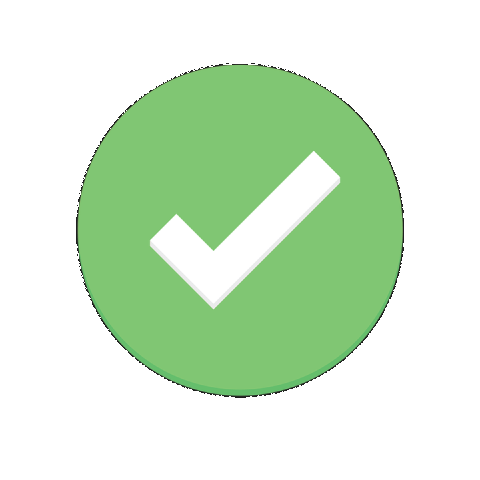
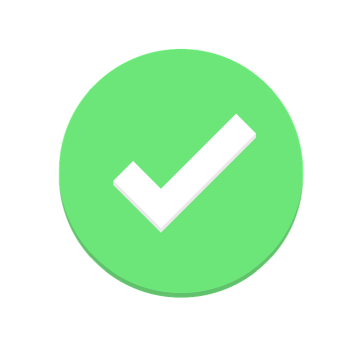
Nano rebranding

diff --git a/src/NanoPayment.js b/src/NanoPayment.js
@@ -20,7 +20,7 @@ import BrainBlocksPaymentDetails from './BrainBlocksPaymentDetails'
 const windowSize = Dimensions.get('window')
 
 // 1 Rai = 0.000001 XRB
-class RaiPayment extends Component {
+class NanoPayment extends Component {
 
   constructor(props) {
     super(props)
@@ -240,7 +240,7 @@ class RaiPayment extends Component {
 
               <View style={styles.paymentImageView}>
                 <Image
-                  source={require('../img/raiBlocks.png')}
+                  source={require('../img/logo.png')}
                   style={styles.paymentImage}
                 />
               </View>
@@ -264,7 +264,7 @@ class RaiPayment extends Component {
 }
 
 
-RaiPayment.propTypes = {
+NanoPayment.propTypes = {
   amount: PropTypes.number.isRequired,
   currency: PropTypes.string.isRequired,
   destination: PropTypes.string.isRequired,
@@ -326,4 +326,4 @@ const styles = StyleSheet.create({
   },
 })
 
-export default RaiPayment
+export default NanoPayment

diff --git a/Demo.js b/Demo.js
@@ -5,7 +5,7 @@ import {
 } from 'react-native'
 
 // 1000 Rai = 0.001 XRB
-import RaiPayment from './src/RaiPayment'
+import NanoPayment from './src/NanoPayment'
 
 export default class Demo extends Component {
 
@@ -30,7 +30,7 @@ export default class Demo extends Component {
   render() {
     return (
       <View style={styles.container}>
-        <RaiPayment
+        <NanoPayment
           amount={this.state.amount}
           autoplay={true}
           currency={this.state.currency}

diff --git a/index.js b/index.js
@@ -1,3 +1,3 @@
-import RaiPayment from './src/RaiPayment'
+import NanoPayment from './src/NanoPayment'
 
-export default RaiPayment;
+export default NanoPayment;

diff --git a/README.md b/README.md
@@ -9,10 +9,10 @@
 
 ## Usage
 ```javascript
-import RaiPayment from 'react-native-brainblocks';
+import NanoPayment from 'react-native-brainblocks';
 
 // Rai
-<RaiPayment
+<NanoPayment
   amount={1000}
   currency='rai'
   destination='xrb_36ooqx5oz3fppjijaabg1jxojn57cuacee31twsk5owewzqgp5bz7ck6rawn'
@@ -21,7 +21,7 @@ import RaiPayment from 'react-native-brainblocks';
 />
 
 // AUD
-<RaiPayment
+<NanoPayment
   amount={1.99}
   currency='aud'
   destination='xrb_36ooqx5oz3fppjijaabg1jxojn57cuacee31twsk5owewzqgp5bz7ck6rawn'
@@ -30,7 +30,7 @@ import RaiPayment from 'react-native-brainblocks';
 />
 
 // USD
-<RaiPayment
+<NanoPayment
   amount={1.99}
   currency='usd'
   destination='xrb_36ooqx5oz3fppjijaabg1jxojn57cuacee31twsk5owewzqgp5bz7ck6rawn'
